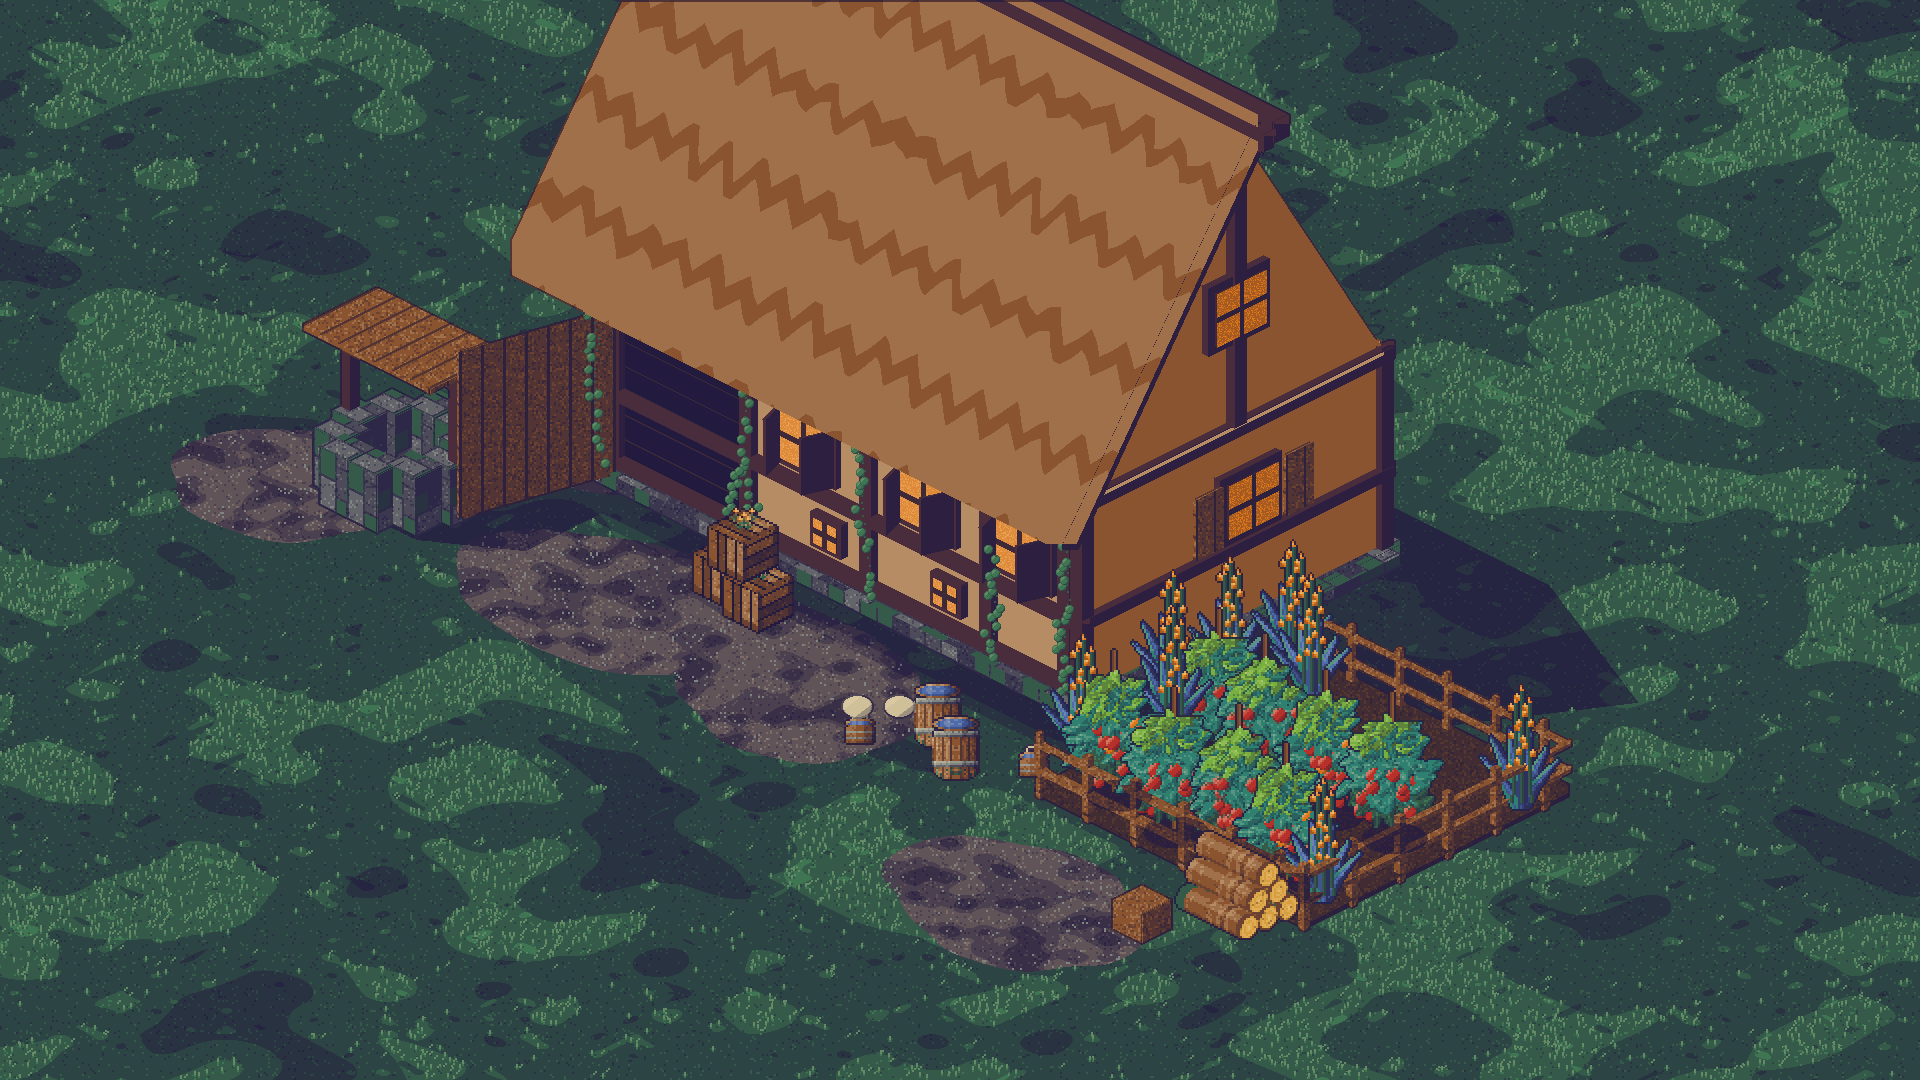
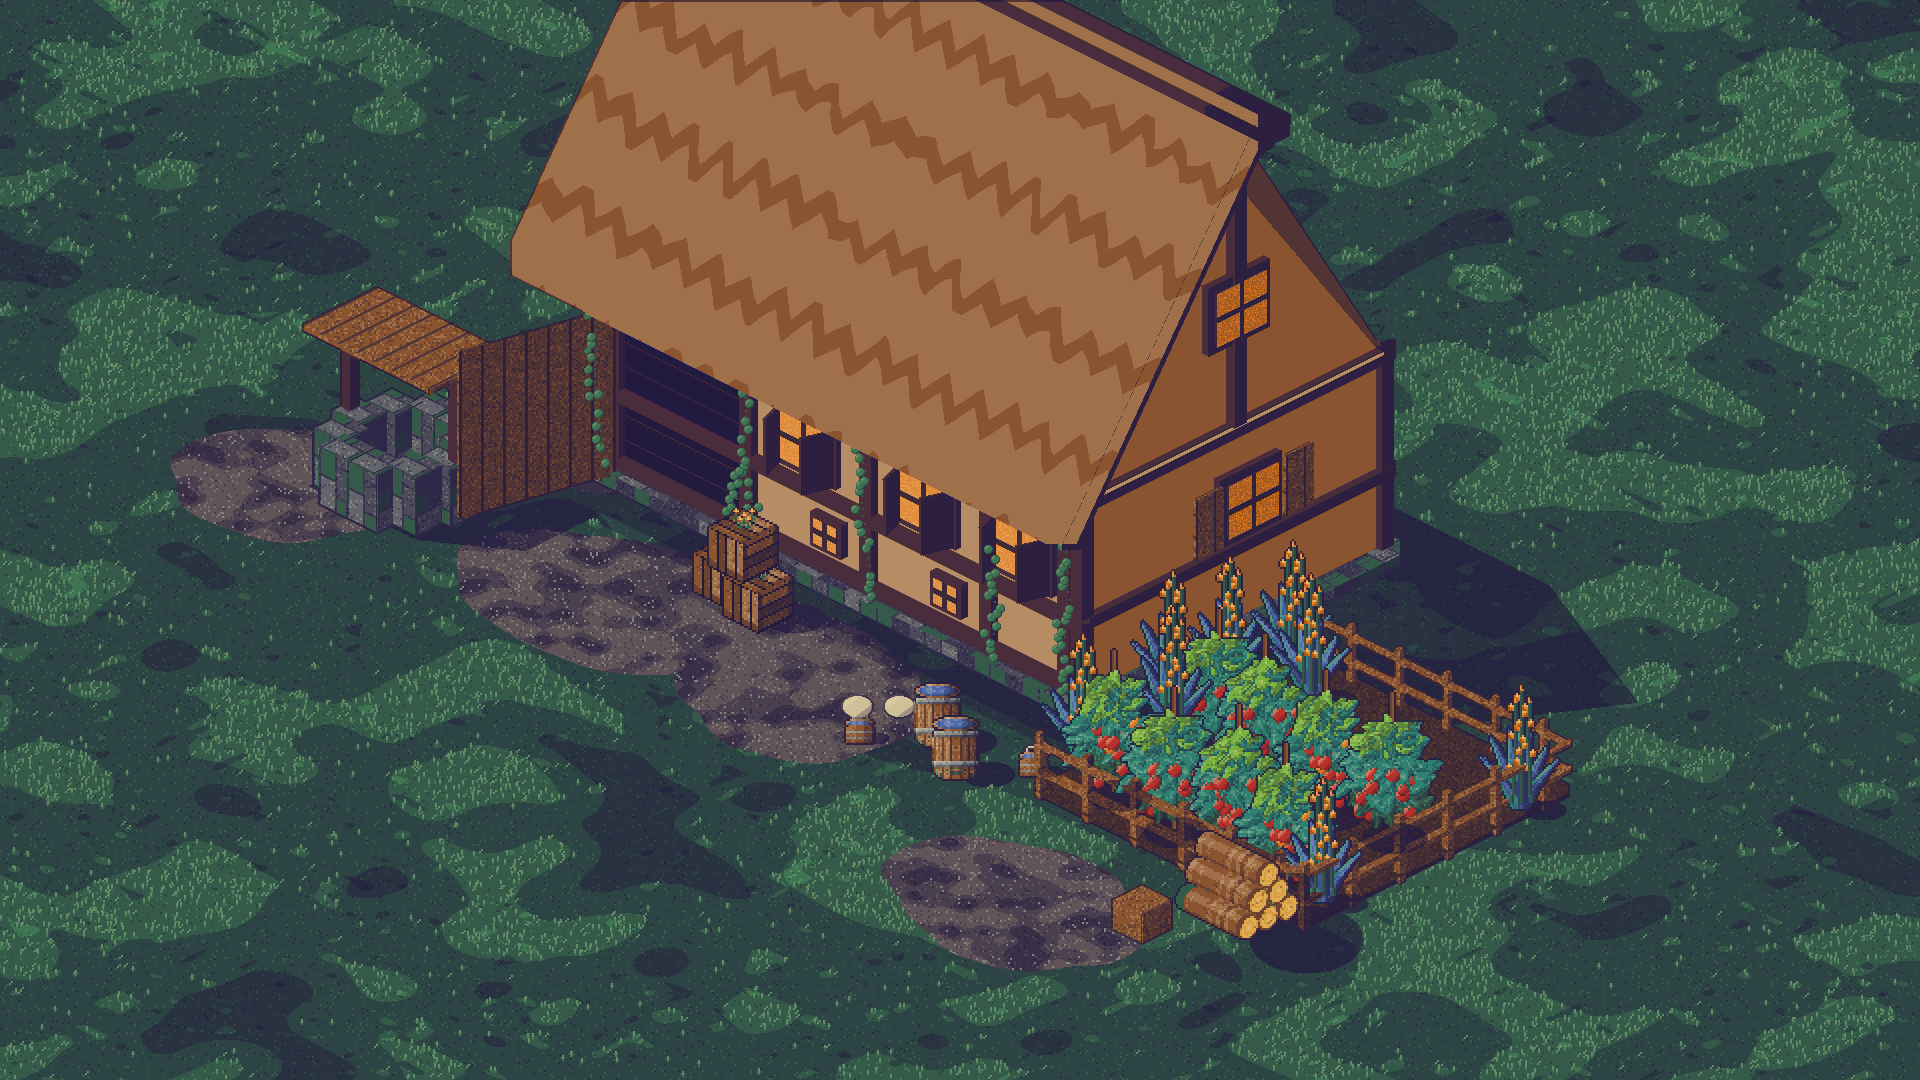
影を追加：軒の影、小物の影（単色版・模様あり版とも）

diff --git a/games/farmhouse/pixel/iso.py b/games/farmhouse/pixel/iso.py
@@ -262,6 +262,16 @@ if FLAT:
             return np.full(x.shape, FI['D'], np.int8), s.astype(np.int8)
         return t
 
+def eave_shadow(tex):
+    """屋根のはりだしがつくる影。正面の壁は上端から約0.65m、右の壁は屋根の斜めの下を暗くする"""
+    def t(x, y, z, u, v, px, py):
+        f, sh = tex(x, y, z, u, v, px, py)
+        zr = 7.1 - np.abs(y - 1) * (4.3 / 3.15)
+        dark = ((y < -1.4) & (z > 2.35)) | ((x > 3.85) & (z > zr - .8))
+        return f, np.where(dark, np.maximum(0, sh.astype(np.int16) - 2), sh).astype(np.int8)
+    return t
+plaster = eave_shadow(plaster); beam = eave_shadow(beam)
+
 # ---------------------------------------------------------------- 物を置く
 def build():
     cast([(x, y, z) for x in (-4.2, 4.2) for y in (-1.6, 3.6) for z in (0, 3)] + [(-4.8, 1, 7.2), (4.8, 1, 7.2), (-4.2, -2.1, 2.9), (4.2, -2.1, 2.9)])
@@ -381,9 +391,17 @@ def shade_ellipse(p, rx, ry, d=2):
             if 0 <= xx < W and 0 <= yy < H and ((xx - X0) / rx) ** 2 + ((yy - Y0) / ry) ** 2 <= 1 and oid[yy, xx] in (0, 1):
                 shd[yy, xx] = max(0, shd[yy, xx] - d)
 
+def drop(p, r=1.0, ry=None, d=2):
+    """物の影：地面を右（+x,+y 側）にずらして暗くする"""
+    shade_ellipse(np.array([p[0] + .3 * r, p[1] + .3 * r, 0.]), int(.5 * A * r), int((ry or .5) * .5 * A * r), d)
+
 def props():
     k = max(1, S // 2)
     barrel, bucket, crate, logs = (load_sprite(n) for n in ("barrel", "bucket", "crate", "logs"))
+    for (x, y) in ((3.2, -3.1), (3.9, -3.5)): drop((x, y), .9)
+    for (x, y) in ((2.5, -3.7), (4.5, -2.8)): drop((x, y), .45)
+    for (cx, cy, cz) in ((-1.0, -2.4, 0), (-.35, -2.55, 0)): drop((cx, cy), 1.0)
+    drop((9.0, -3.9), 1.9, .6)
     for (x, y) in ((3.2, -3.1), (3.9, -3.5)): stamp(barrel, np.array([x + .1, y - .1, 0.]), k)
     for (x, y) in ((2.5, -3.7), (4.5, -2.8)): stamp(bucket, np.array([x + .1, y - .1, 0.]), k)
     for (cx, cy, cz) in ((-1.0, -2.4, 0), (-.35, -2.55, 0), (-.7, -2.45, .5)): stamp(crate, np.array([cx + .28, cy - .28, cz]), k)
@@ -397,7 +415,7 @@ def props():
     # 背の高い花（小物の絵）
     fl = [load_sprite("flower1"), load_sprite("flower2")]
     for i, (fx, fy) in enumerate(((4.7, -2.2), (5.0, -1.0), (4.65, .3), (4.9, 1.1), (5.6, .7), (4.4, -.4), (9.1, -2.6), (9.2, .6))):
-        stamp(fl[i % 2], np.array([fx, fy, 0.]), k)
+        drop((fx, fy), .7); stamp(fl[i % 2], np.array([fx, fy, 0.]), k)
     # つる（家の壁）
     for (x, top) in ((-3.85, 2.8), (-1.4, 2.2), (-1.7, 1.2), (.6, 2.6), (2.6, 1.8), (3.9, 2.9)):
         u = 0.; z = .3
